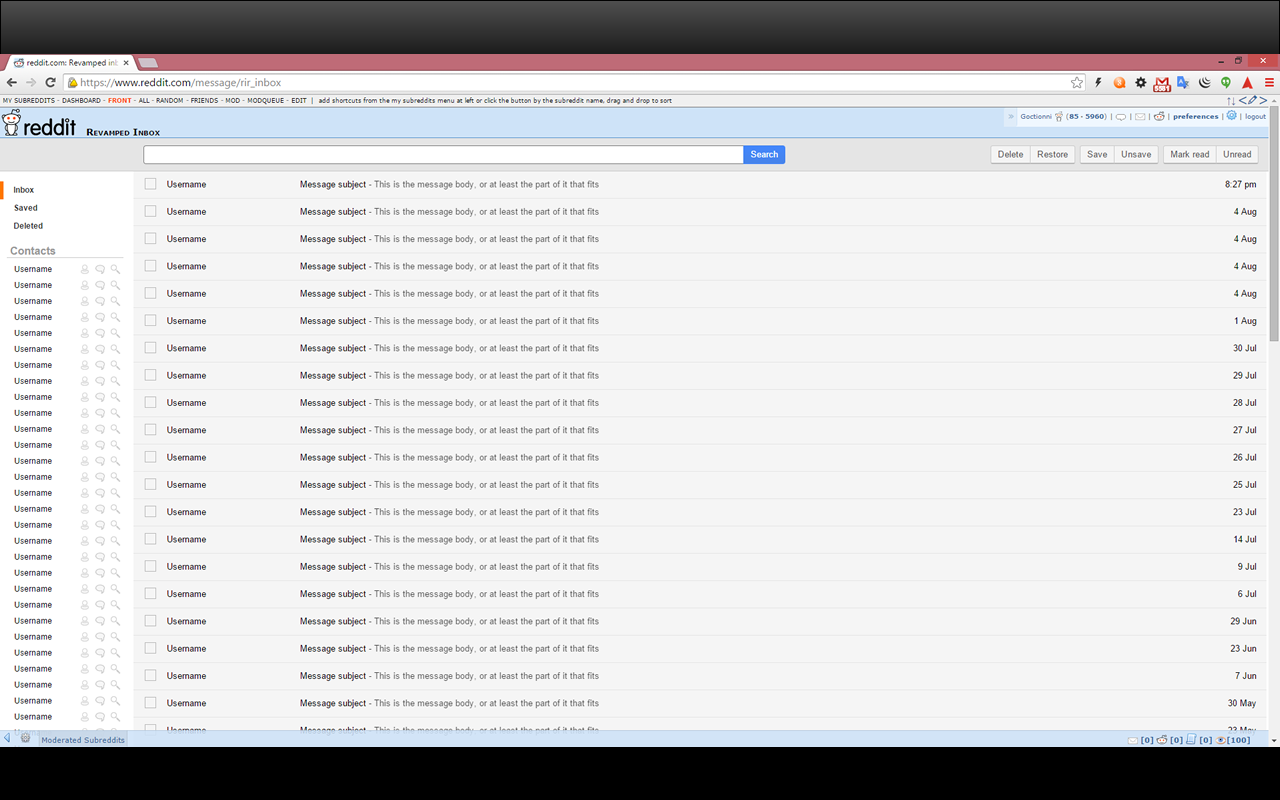
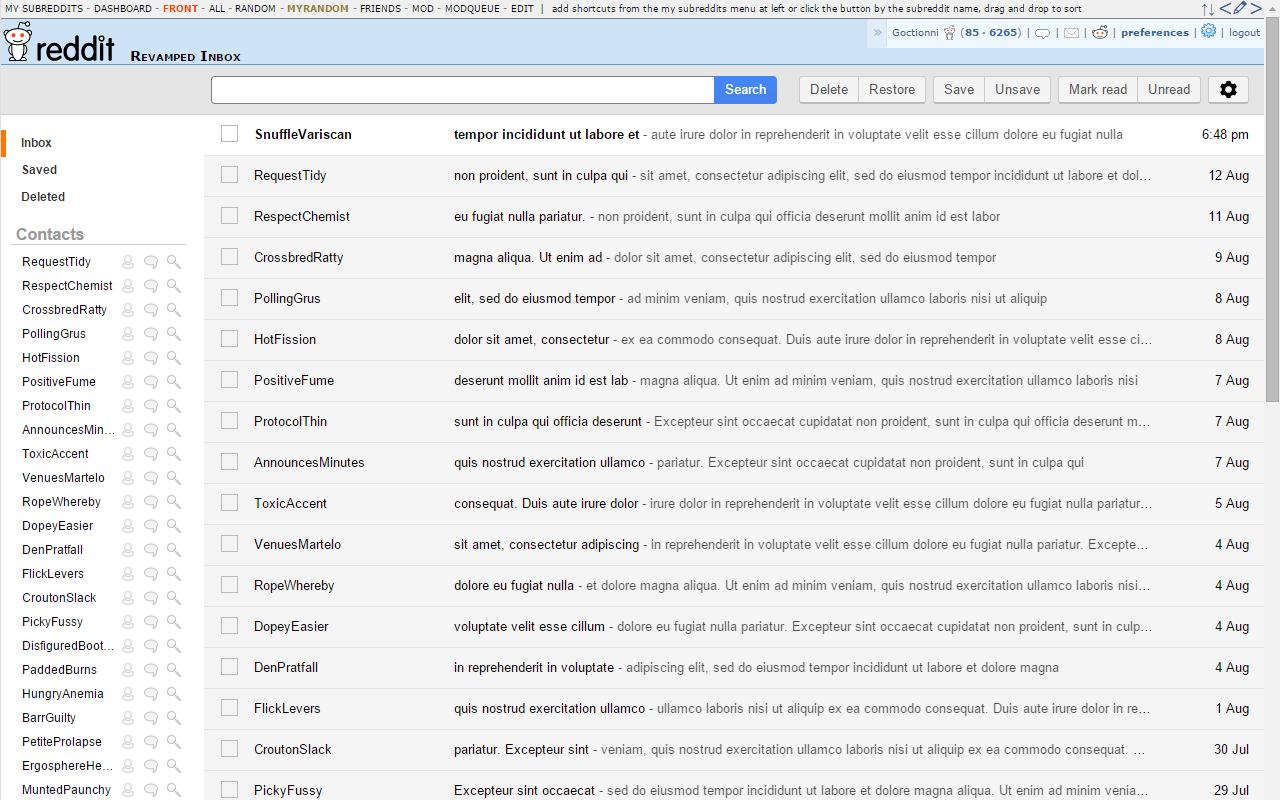
Updated screenshots, and subreddit messages that previously had [unknown] as sender should now have the subreddit as sender.

diff --git a/js/idb.js b/js/idb.js
@@ -287,15 +287,23 @@ var rir_db = {};
         }
     }
     
-    function addPrivateMessages(obj, callback) {
+    function stripNonPMAttributes(obj){
         var message = getObjAttributes(obj, db_tables.privateMessages.columns);
+        if(!message.author && obj.subreddit) {
+            message.author = '#' + obj.subreddit;
+        }
+        return message;
+    }
+    
+    function addPrivateMessages(obj, callback) {
+        var message = stripNonPMAttributes(obj);
         message.first_message_name = (message.first_message_name) ? message.first_message_name : message.name;
         
         var messages = [message];
         if(obj.replies) {
             var replies = obj.replies.data.children;
             for(var i = 0; i < replies.length; i++) {
-                messages.push(getObjAttributes(replies[i].data, db_tables.privateMessages.columns));
+                messages.push(stripNonPMAttributes(replies[i].data));
             }
         }
         
@@ -338,7 +346,11 @@ var rir_db = {};
             var item = listing[i];
             if(indexed.indexOf(item.data.id) === -1) {
                 indexed.push(item.data.id);
-                listItems.push(item.data);
+                var obj = item.data;
+                if(!obj.author && obj.subreddit) {
+                    obj.author = obj.subreddit;
+                }
+                listItems.push(obj);
             }
         }
         return listItems;

diff --git a/js/inbox.js b/js/inbox.js
@@ -57,7 +57,7 @@ log(INFO, "Reddit inbox Revamp loading");
                     if(!pm['new'] && i < numMessages) {
                         $pm.addClass('rir-collapsed');
                     }
-                    if(pm.author === conversation.correspondent) {
+                    if(pm.author !== getUsername()) {
                         responseId = pm.name;
                     }
                 })(conversation.messages[numMessages - i]);
